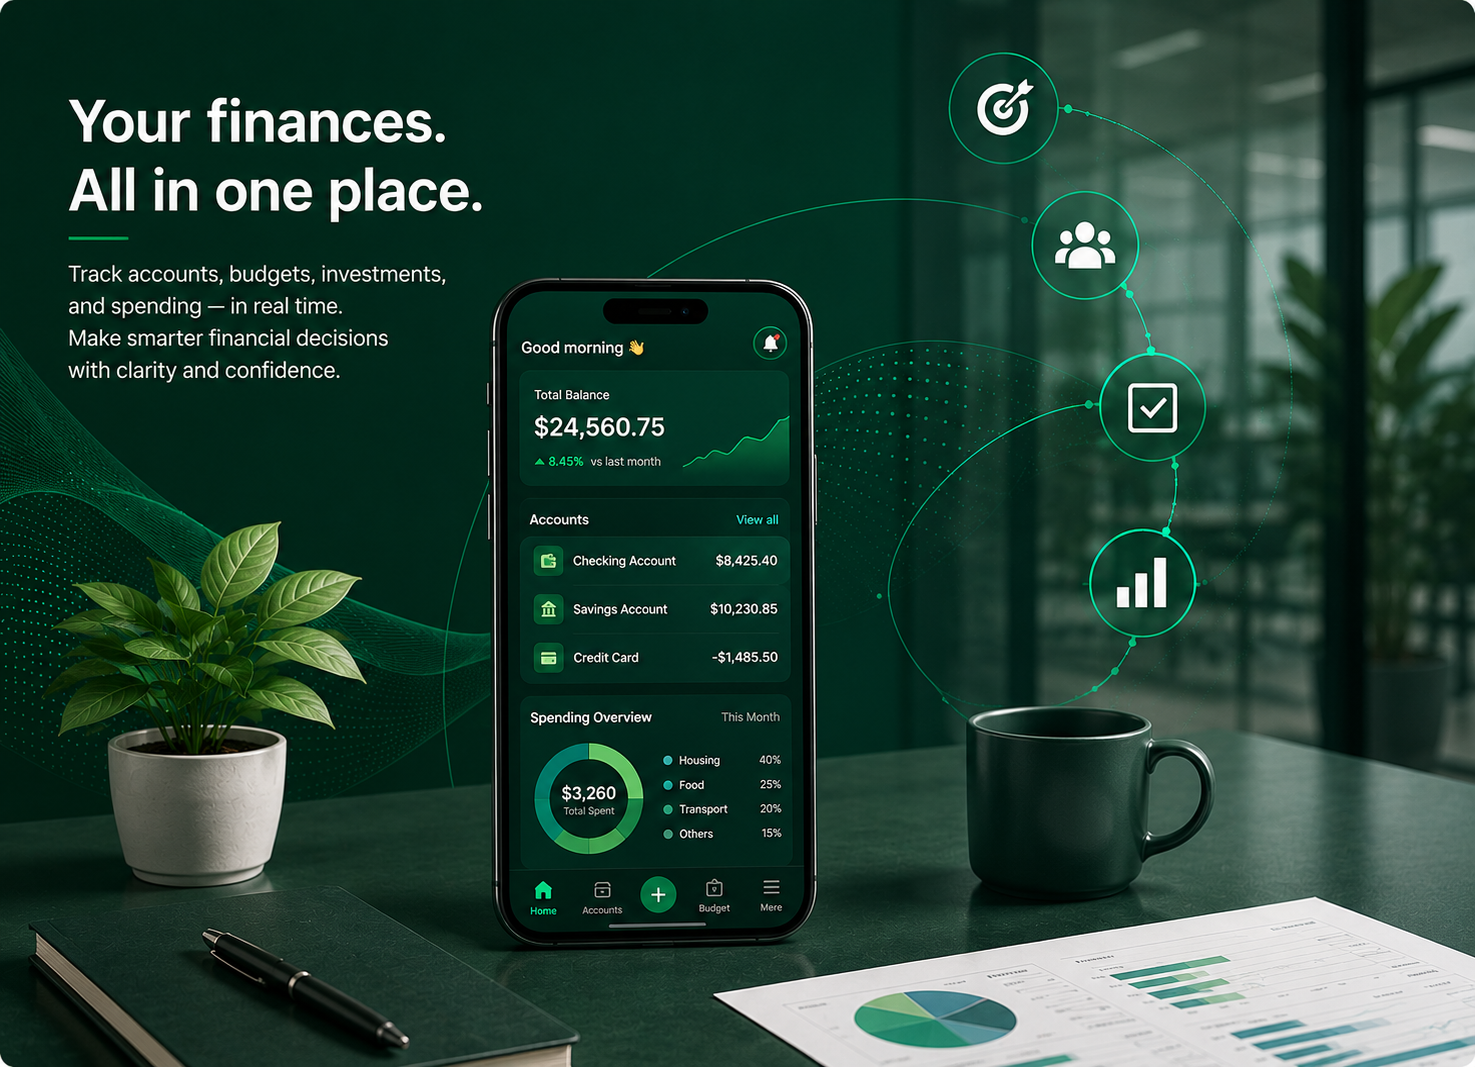
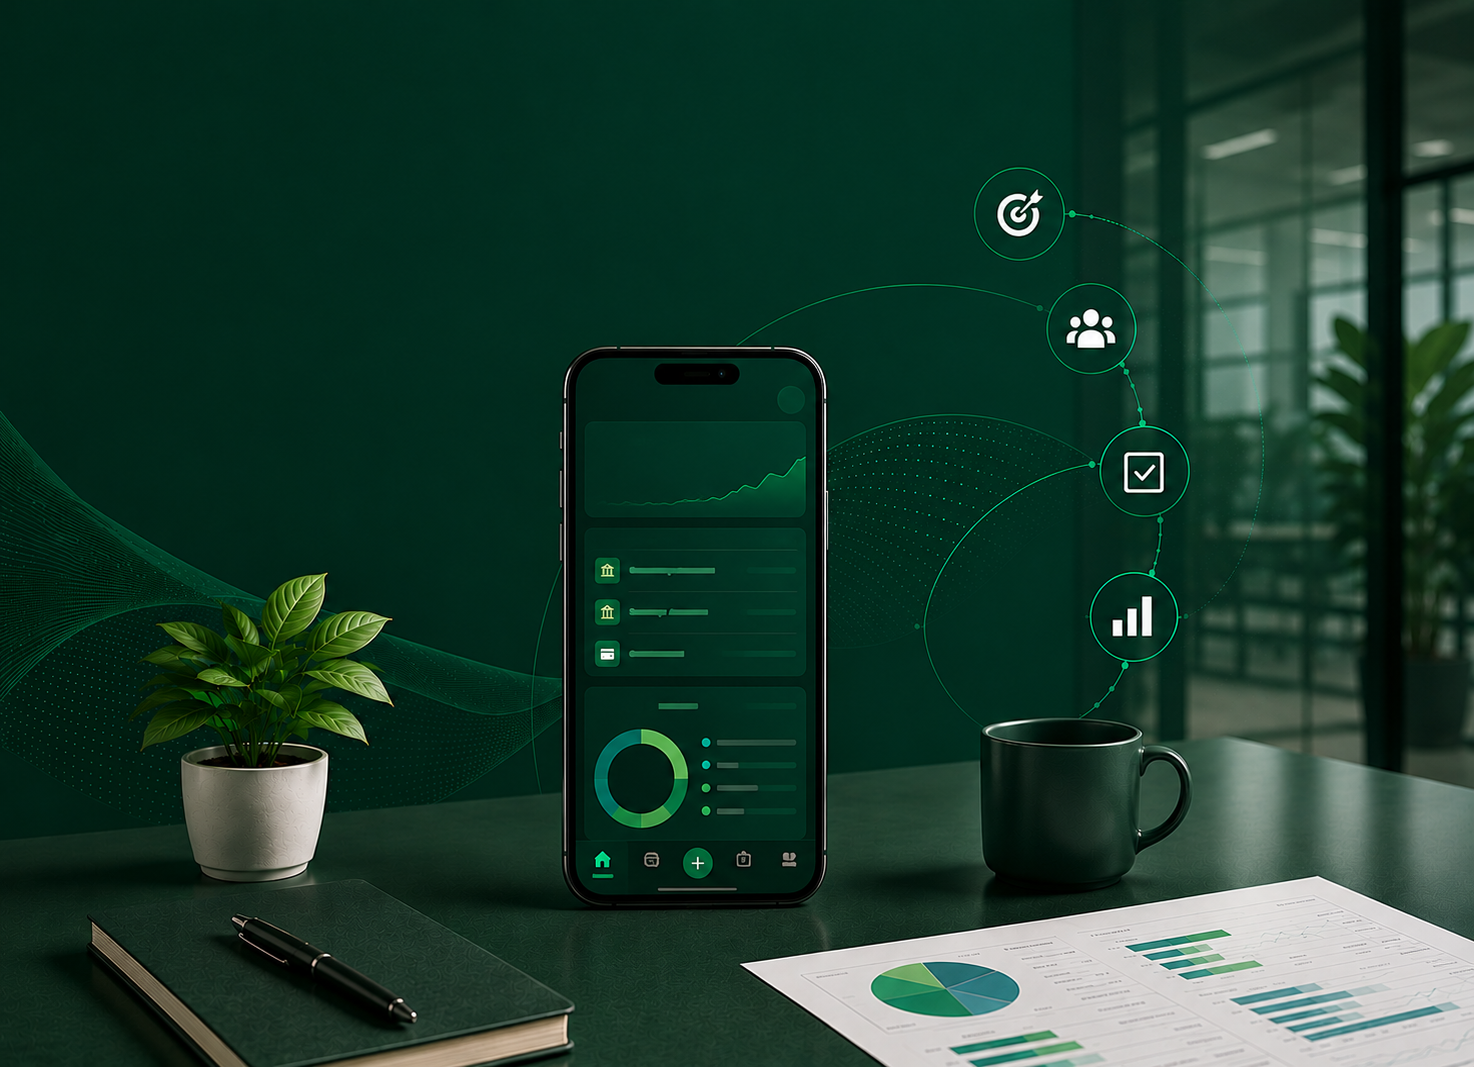
updated the code

diff --git a/src/QubiqonFinanceHub.Web/src/components/Login.tsx b/src/QubiqonFinanceHub.Web/src/components/Login.tsx
@@ -65,6 +65,43 @@ export default function Login({ onLogin }: LoginProps) {
           background: "#003a31",
         }}
       >
+        <div
+          aria-hidden="true"
+          style={{
+            position: "absolute",
+            inset: 0,
+            background: "linear-gradient(90deg, rgba(0,0,0,0.55) 0%, rgba(0,0,0,0.15) 55%, rgba(0,0,0,0) 100%)",
+            zIndex: 1,
+            pointerEvents: "none",
+          }}
+        />
+        <div
+          style={{
+            position: "absolute",
+            top: "56px",
+            left: "56px",
+            zIndex: 2,
+            color: "#fff",
+            maxWidth: "460px",
+            paddingRight: "12px",
+          }}
+        >
+          <div style={{ fontSize: "44px", fontWeight: 800, lineHeight: 1.05, letterSpacing: "-0.02em" }}>
+            Your finances.
+            <br />
+            All in one place.
+          </div>
+          <div style={{ width: "38px", height: "3px", background: "#18c08b", borderRadius: "999px", margin: "18px 0 16px" }} />
+          <div style={{ fontSize: "13px", lineHeight: 1.55, color: "rgba(255,255,255,0.82)" }}>
+            Track accounts, budgets, investments,
+            <br />
+            and spending — in real time.
+            <br />
+            Make smarter financial decisions
+            <br />
+            with clarity and confidence.
+          </div>
+        </div>
         <img
           src={loginImage}
           alt="Finance dashboard preview"
@@ -75,6 +112,8 @@ export default function Login({ onLogin }: LoginProps) {
             display: "block",
             objectFit: "cover",
             objectPosition: "center",
+            position: "relative",
+            zIndex: 0,
           }}
         />
       </section>
